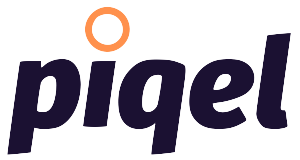
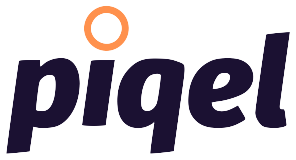
Update README

diff --git a/docs/README.html b/docs/README.html
@@ -1,5 +1,7 @@
 <div align="center">
-  <h1><code>partiql-rs</code></h1>
+  <div>
+    <img src="https://raw.githubusercontent.com/fuyutarow/piqel/alpha/docs/static/img/label.png">
+  </div>
   <strong>An implementation of PartiQL written in Rust</strong>
   <h3>
     <a href="https://partiql.vercel.app">Document(WIP)</a>
@@ -30,7 +32,7 @@ tobe = '''
 ]
 '''
 </code></pre>
-<h2 id="familiy">Familiy</h2>
+<h2 id="family">Family</h2>
 <table>
 <thead>
 <tr>
@@ -207,26 +209,21 @@ tobe = '''
 </table>
 <h3 id="calculate-bmi">Calculate BMI</h3>
 <ol>
-<li>Download the file and then calculate BMI in local.</li>
+<li>Download the file and then calculate BMI in a local.</li>
 </ol>
 <pre class="code-block"><code class="language-sh:$ sh:$">curl -s https://raw.githubusercontent.com/fuyutarow/pokemon.json/master/en/pokemon.json | pq -q &quot;SELECT name, weight/height/height AS bmi ORDER BY bmi DESC LIMIT 20&quot;
 </code></pre>
 <ol start="2">
-<li>In terminal, send a query to the server to calculate BMI in remote.</li>
+<li>In a terminal, send a query to the server to calculate BMI in a remote.</li>
 </ol>
 <pre class="code-block"><code class="language-sh:$ sh:$">curl https://partiql-pokemon.vercel.app/api/pokemon/ja -G --data-urlencode &quot;q= SELECT name, weight/height/height AS bmi ORDER BY bmi DESC LIMIT 20&quot;
 </code></pre>
 <ol start="3">
-<li>In web browser, send a query to the server to calculate BMI in remote.</li>
+<li>In a web browser, send a query to the server to calculate BMI in a remote.</li>
 </ol>
-<p>[“<a href="https://partiql-pokemon.vercel.app/api/pokemon/en?q=">https://partiql-pokemon.vercel.app/api/pokemon/en?q=</a> SELECT name, weight/height/height AS  bmi ORDER BY bmi DESC LIMIT 20”]
-(<a href="https://partiql-pokemon.vercel.app/api/pokemon/ja?q=%20SELECT%20name,%20weight/height/height%20AS%20%20bmi%20ORDER%20BY%20bmi%20DESC%20LIMIT%2020">https://partiql-pokemon.vercel.app/api/pokemon/ja?q= SELECT name, weight/height/height AS  bmi ORDER BY bmi DESC LIMIT 20</a>)</p>
 <a href="https://partiql-pokemon.vercel.app/api/pokemon/ja?q=%20SELECT%20name,%20weight/height/height%20AS%20%20bmi%20ORDER%20BY%20bmi%20DESC%20LIMIT%2020">
 partiql-pokemon.vercel.app/api/pokemon/en?q= SELECT name, weight/height/height AS  bmi ORDER BY bmi DESC LIMIT 20
 </a>
-<p>[partiql-pokemon.vercel.app/api/pokemon/en?q= SELECT name, weight/height/height AS  bmi ORDER BY bmi DESC LIMIT 20]
-(<a href="https://partiql-pokemon.vercel.app/api/pokemon/ja?q=%20SELECT%20name,%20weight/height/height%20AS%20%20bmi%20ORDER%20BY%20bmi%20DESC%20LIMIT%2020">https://partiql-pokemon.vercel.app/api/pokemon/ja?q= SELECT name, weight/height/height AS  bmi ORDER BY bmi DESC LIMIT 20</a>)</p>
-<p><a href="https://partiql-pokemon.vercel.app/api/pokemon/ja?q=%20SELECT%20name,%20weight/height/height%20AS%20%20bmi%20ORDER%20BY%20bmi%20DESC%20LIMIT%2020">https://partiql-pokemon.vercel.app/api/pokemon/ja?q= SELECT name, weight/height/height AS  bmi ORDER BY bmi DESC LIMIT 20</a></p>
 <h2 id="installation">Installation</h2>
 <pre class="code-block"><code class="language-sh:$ sh:$">brew install fuyutarow/tap/pq
 pq -h

diff --git a/docs/README.md b/docs/README.md
@@ -1,12 +1,12 @@
 <div align="center">
-  <h1><code>partiql-rs</code></h1>
+  <div>
+    <img src="https://raw.githubusercontent.com/fuyutarow/piqel/alpha/docs/static/img/label.png"></img>
+  </div>
   <strong>An implementation of PartiQL written in Rust</strong>
-
   <h3>
     <a href="https://partiql.vercel.app">Document(WIP)</a>
   </h3>
 </div>
-
 
 ```toml:tests-make/hello.toml
 [tests.hello]
@@ -35,7 +35,7 @@ tobe = '''
 '''
 ```
 
-## Familiy
+## Family
 
 | content | lang | package |
 | --- | --- | --- |
@@ -137,31 +137,21 @@ Comparison with existing command yj[^yj]
 
 ### Calculate BMI
 
-1. Download the file and then calculate BMI in local.
-```sh:$
-curl -s https://raw.githubusercontent.com/fuyutarow/pokemon.json/master/en/pokemon.json | pq -q "SELECT name, weight/height/height AS bmi ORDER BY bmi DESC LIMIT 20"
-```
+1. Download the file and then calculate BMI in a local.
+  ```sh:$
+  curl -s https://raw.githubusercontent.com/fuyutarow/pokemon.json/master/en/pokemon.json | pq -q "SELECT name, weight/height/height AS bmi ORDER BY bmi DESC LIMIT 20"
+  ```
 
-2. In terminal, send a query to the server to calculate BMI in remote. 
-```sh:$
-curl https://partiql-pokemon.vercel.app/api/pokemon/ja -G --data-urlencode "q= SELECT name, weight/height/height AS bmi ORDER BY bmi DESC LIMIT 20"
-```
+2. In a terminal, send a query to the server to calculate BMI in a remote.
+  ```sh:$
+  curl https://partiql-pokemon.vercel.app/api/pokemon/ja -G --data-urlencode "q= SELECT name, weight/height/height AS bmi ORDER BY bmi DESC LIMIT 20"
+  ```
 
-3. In web browser, send a query to the server to calculate BMI in remote.
-
-
-["https://partiql-pokemon.vercel.app/api/pokemon/en?q= SELECT name, weight/height/height AS  bmi ORDER BY bmi DESC LIMIT 20"]
-(https://partiql-pokemon.vercel.app/api/pokemon/ja?q=%20SELECT%20name,%20weight/height/height%20AS%20%20bmi%20ORDER%20BY%20bmi%20DESC%20LIMIT%2020)
-
+3. In a web browser, send a query to the server to calculate BMI in a remote.
 
 <a href="https://partiql-pokemon.vercel.app/api/pokemon/ja?q=%20SELECT%20name,%20weight/height/height%20AS%20%20bmi%20ORDER%20BY%20bmi%20DESC%20LIMIT%2020">
 partiql-pokemon.vercel.app/api/pokemon/en?q= SELECT name, weight/height/height AS  bmi ORDER BY bmi DESC LIMIT 20
 </a>
-
-[partiql-pokemon.vercel.app/api/pokemon/en?q= SELECT name, weight/height/height AS  bmi ORDER BY bmi DESC LIMIT 20]
-(https://partiql-pokemon.vercel.app/api/pokemon/ja?q=%20SELECT%20name,%20weight/height/height%20AS%20%20bmi%20ORDER%20BY%20bmi%20DESC%20LIMIT%2020)
-
-https://partiql-pokemon.vercel.app/api/pokemon/ja?q=%20SELECT%20name,%20weight/height/height%20AS%20%20bmi%20ORDER%20BY%20bmi%20DESC%20LIMIT%2020
 
 ## Installation
 

diff --git a/partiql-js/README.md b/partiql-js/README.md
@@ -1,5 +1,7 @@
 <div align="center">
-  <h1><code>partiql-js</code></h1>
+  <div>
+    <img src="https://raw.githubusercontent.com/fuyutarow/piqel/alpha/docs/static/img/label.png"></img>
+  </div>
   <strong>An implementation of PartiQL written in Rust</strong>
 
   <h3>
@@ -49,7 +51,7 @@ def test_evaluate():
 ```
 
 
-# Familiy
+# Family
 
 | content | lang | package |
 | --- | --- | --- |

diff --git a/partiql-py/README.md b/partiql-py/README.md
@@ -1,5 +1,7 @@
 <div align="center">
-  <h1><code>partiql-py</code></h1>
+  <div>
+    <img src="https://raw.githubusercontent.com/fuyutarow/piqel/alpha/docs/static/img/label.png"></img>
+  </div>
   <strong>An implementation of PartiQL written in Rust</strong>
 
   <h3>
@@ -44,7 +46,7 @@ makers test:py
 ```
 
 
-# Familiy
+# Family
 
 | content | lang | package |
 | --- | --- | --- |
